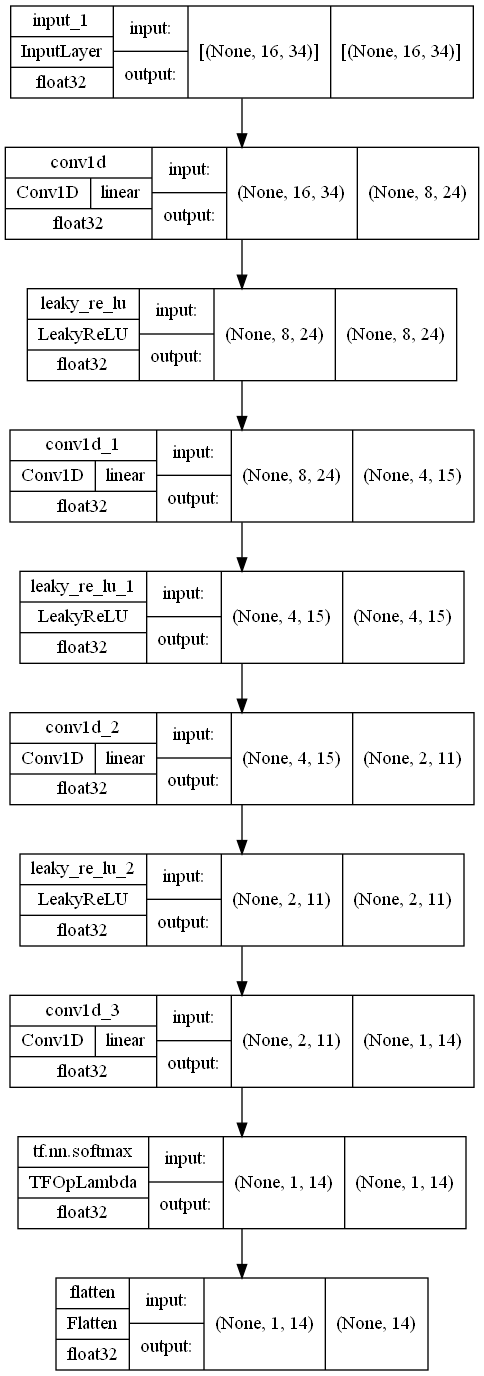
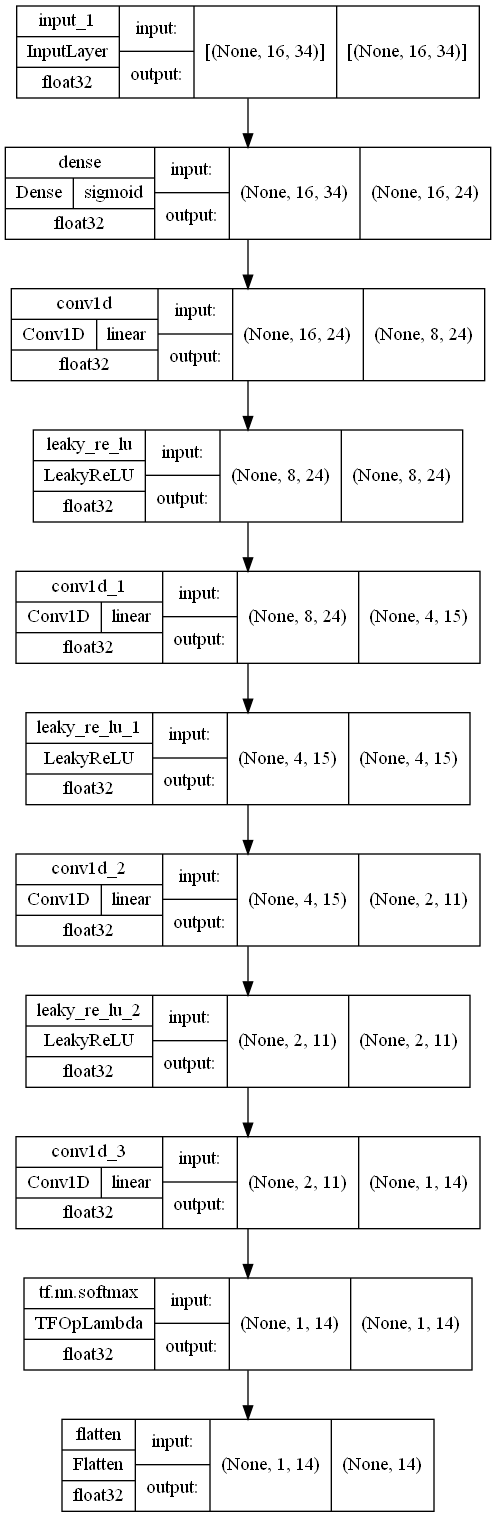
simplified basic cnn classifier

diff --git a/src/networks/gans/stateFulGan.py b/src/networks/gans/stateFulGan.py
@@ -220,8 +220,6 @@ if __name__ == "__main__":
     # genOut = get_synthetic_data(loadGan, timeStepsFactor=100, nEpochs=0)
 
     gan = get_gan(loadGan)
-    nn_diagram(gan.generator)
-    # nn_diagram(gan.critic)
     # gan = run_gan(gan)
     # genOut = genApi.get_nBatches_lstm(10, gen=gan.generator, noiseDim=NOISE_DIM, batchSize=BATCH_SIZE)
     # genOutProc = postProc.gen_out_to_real_normalized(genOut.numpy())
@@ -229,7 +227,7 @@ if __name__ == "__main__":
     if gv.DEBUG:
         plt.show()
 
-    from networks.classifiers import binaryCasasClassifier as bcc
-    classifier = bcc.basic_cnn()
-    nn_diagram(classifier)
+    # from networks.classifiers import binaryCasasClassifier as bcc
+    # classifier = bcc.basic_cnn()
+    # nn_diagram(classifier)
     exit()

diff --git a/src/networks/classifiers/binaryCasasClassifier.py b/src/networks/classifiers/binaryCasasClassifier.py
@@ -112,8 +112,9 @@ def trtr(title):
     print(test_result_2[1])
 
 def basic_cnn() -> keras.models.Model:
-    inputLayer = keras.Input(shape=(N_TIME_STEPS, len(bcNames.features))) #should be 48 channels
-    x = cBlocks.conv_block(inputLayer, 24, defaults.leaky_relu(),) #8 timesteps
+    inputLayer = keras.Input(shape=(N_TIME_STEPS, len(bcNames.features)))#should be 48 channels
+    x = l.Dense(24, keras.activations.sigmoid)(inputLayer)
+    x = cBlocks.conv_block(x, 24, defaults.leaky_relu(),) #8 timesteps
     x = cBlocks.conv_block(x, 15, defaults.leaky_relu()) #4 timesteps
     x = cBlocks.conv_block(x, 11, defaults.leaky_relu()) #2 timesteps
     x = cBlocks.conv_block(x, len(bcNames.allActivities), activation=keras.activations.softmax)
